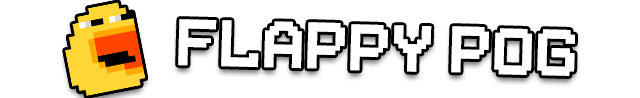
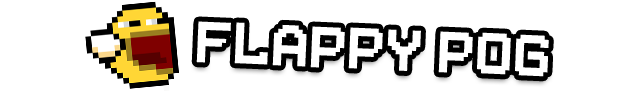
New textures & Hardcore rework

diff --git a/js/game.js b/js/game.js
@@ -5,9 +5,11 @@ kaboom({
     font: "sinko",
     debug: false,
 });
-loadSprite("poggers", "img/pog128.png");
+loadSprite("poggers", "img/pog.png");
 loadSprite("pipe", "img/pipe.png");
 loadSprite("menu", "img/intro.png")
+loadSprite("bg", "img/bg.png")
+loadSprite("start", "img/start.png")
 loadSound("jump", "sounds/jump.wav");
 loadSound("gameover", "sounds/gameover.wav")
 loadSound("point", "sounds/point.wav")
@@ -17,10 +19,33 @@ let highScore = 0;
 let hardcore = 0;
 let music = 0;
 
+
 scene("intro", () => {
+
+    //We do a little bit of trolling :D
+    let playY = rand(-100, 50);
+    
     add([
-        sprite("menu"),
-        scale(1.0),
+        sprite("bg"),
+    ])
+
+    if(rand(0, 1000) === 727){
+        add([
+            sprite("menu", {flipY: true}),
+        ])
+
+        playY = -250
+    }
+    else{
+        add([
+            sprite("menu"),
+        ])
+    }
+
+    add([
+        sprite("start"),
+        pos(0, playY),
+        "start",
     ])
 
     onMousePress(() =>{
@@ -29,6 +54,11 @@ scene("intro", () => {
 })
 
 scene("game", () => {
+
+    
+    add([
+            sprite("bg"),
+        ])
 
     hardcore = 0;
     let score = 0;
@@ -46,8 +76,8 @@ scene("game", () => {
 
     onKeyPress("h", () =>{
         hardcore = 1;
-        pipespeed = -500
-        gap1 = 150;
+        pipespeed = -1000
+        gap1 = 110;
         gap2 = 180;
         pipescale = 5;
     })
@@ -125,6 +155,10 @@ scene("game", () => {
 });
 
 scene("gameover", (score) => {
+
+    add([
+        sprite("bg"),
+    ])
 
     play("gameover");
 

diff --git a/index.html b/index.html
@@ -14,7 +14,9 @@
     <img src="img/flappypog.png"></br>
     <script src="js/game.js">
     </script></br>
-    Click: Jump / R: Retrying / H: Hardcore mode (in-game) / M: Enable music
+    Click: Jump / R: Retrying / H: Hardcore mode (in-game) / M: Enable music</br>
+   </br>
+    Thanks to Elmaric for creating the new sprites!
 </body>
 
 <footer>   
